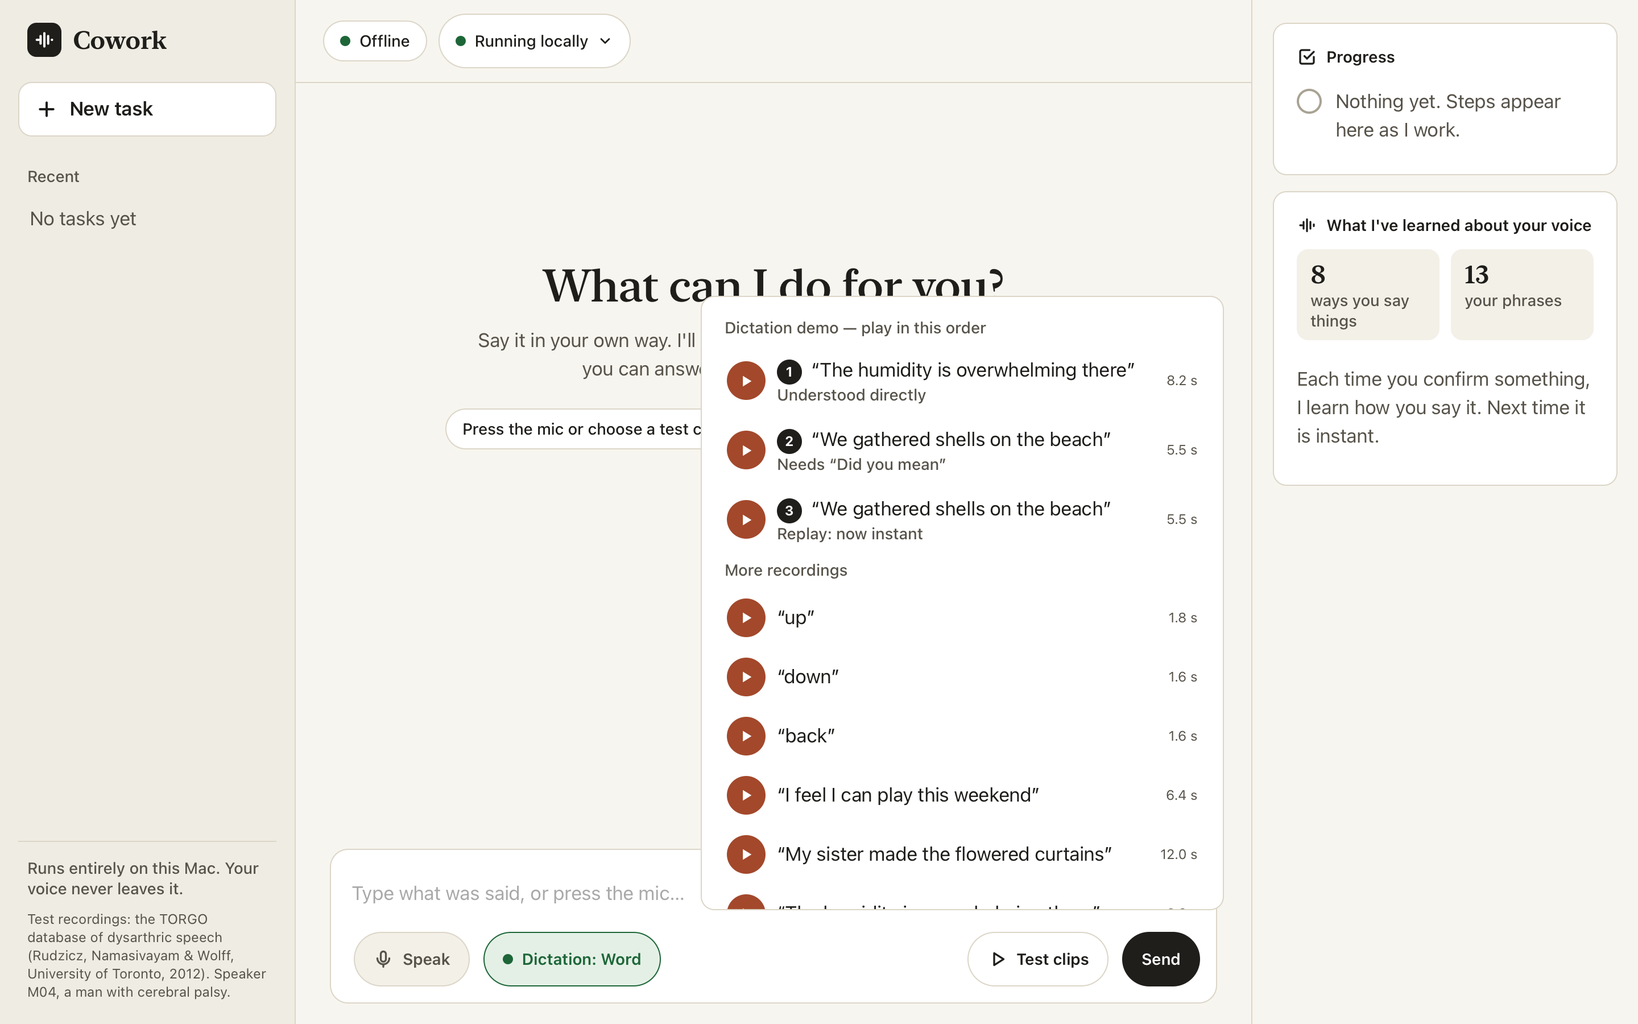
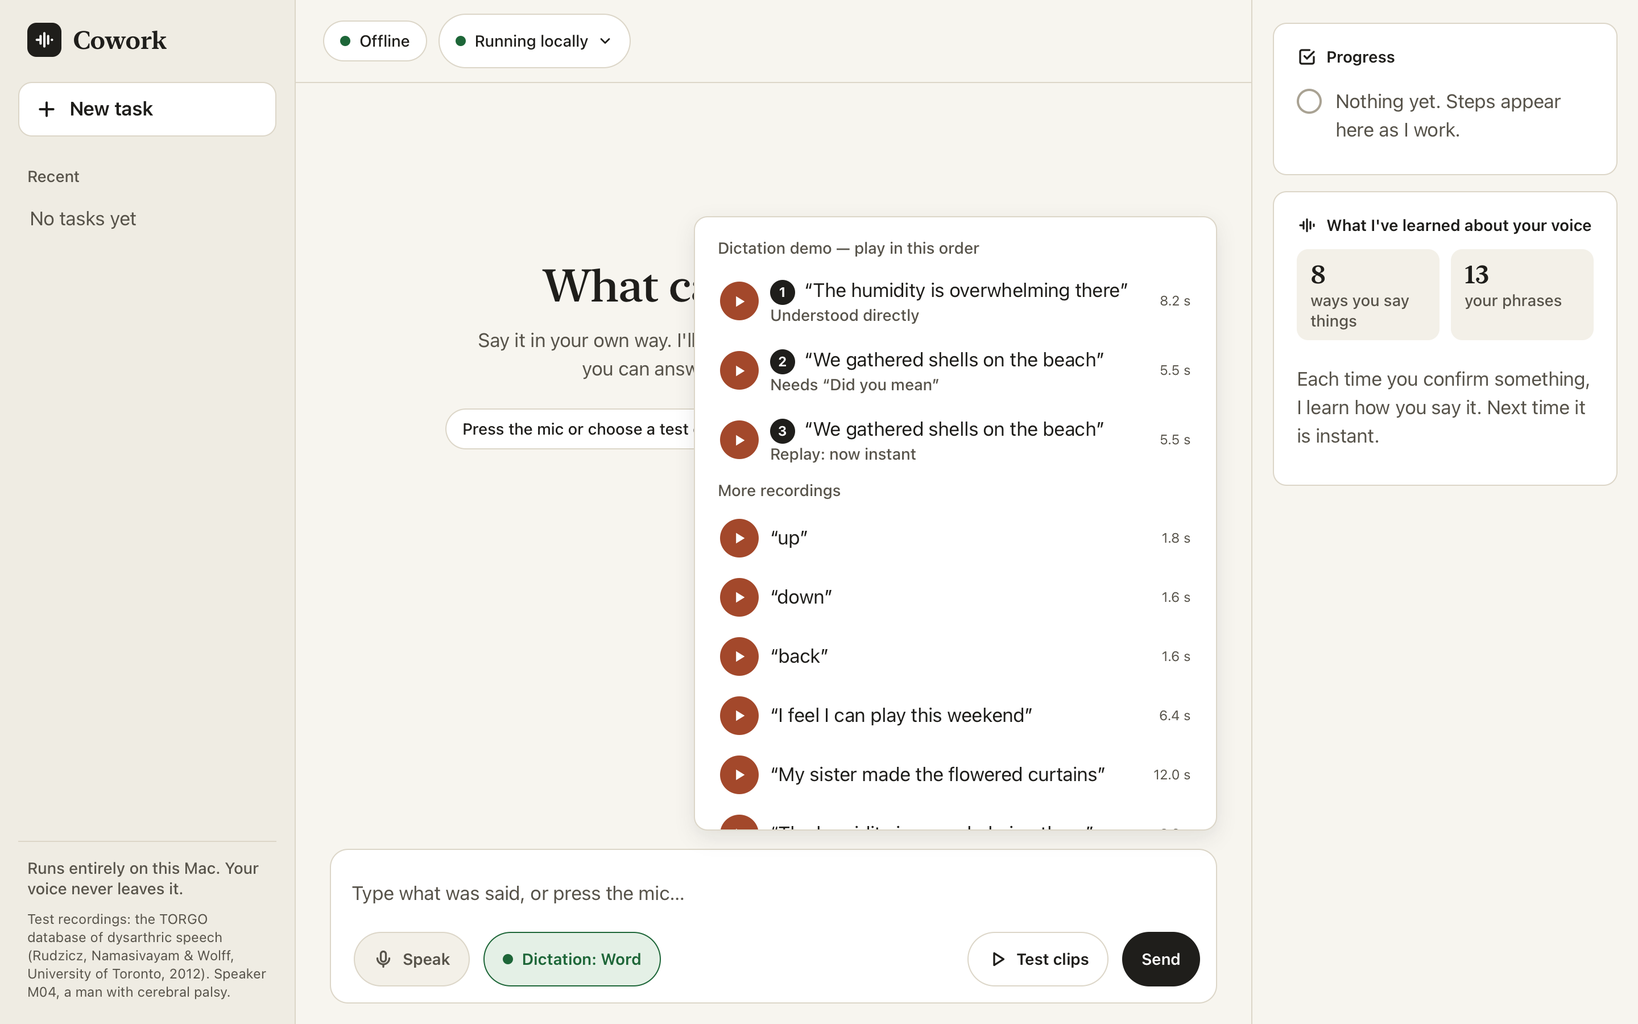
Cowork polish steps 5-8: question cards, right column, camera message, clip list
- Question cards: whole card scrolled into view; line icons instead of emoji; each option shows its
  number and one hint ('Right thumb up'); one instruction line; the Yes button states the outcome
  ('Yes, type it into Word', 'Yes, open Notes'); hold-to-confirm bar kept
- Right column: camera card first (a normal card, shown while a question is open), then Progress,
  then 'What I've learned' in plain language ('Learned: ... means ...', 'Recognized instantly'),
  at most 4 items, newest first; only the hold ring redraws (no camera flicker)
- Camera missing: message only inside the camera card, no pop-up
- Clip list opens above the composer, at most 60% of the window
- Checked in 4 states: only the 5 text sizes, every target at least 48px, the card never clipped,
  no emoji; all text colours at least 4.9:1
- Screen only: no backend, endpoint, model, gesture or learning changes

diff --git a/ui/static/cowork.html b/ui/static/cowork.html
@@ -156,9 +156,13 @@ button.chip { min-height: var(--target); }
 .perm.risky .btn.allow { background: var(--bad); border-color: var(--bad); }
 .btn .how { display: flex; align-items: center; gap: 6px; flex: none; }
 .key { font: var(--label); padding: 2px 7px; border-radius: 6px; border: 1px solid currentColor; }
-.gest { display: inline-flex; flex-direction: column; align-items: center; font-size: 22px; line-height: 1; }
-.gest small { font: var(--caption); margin-top: 2px; }
-.gest .flip { display: inline-block; transform: scaleX(-1); }
+.gest { display: inline-flex; flex-direction: column; align-items: center; line-height: 1; }
+.gest .gi { display: inline-flex; width: 24px; height: 24px; }
+.gest .gi svg { width: 24px; height: 24px; }
+.gest small { font: var(--caption); margin-top: 3px; }
+.opt .hint { display: inline-flex; align-items: center; gap: 8px; font: var(--label); color: var(--muted); }
+.opt .hint svg { width: 20px; height: 20px; }
+.btn.allow .key, .btn.allow .gest { color: #fff; }
 .btn .fill { position: absolute; left: 0; bottom: 0; height: 6px; background: var(--accent); width: calc(var(--p, 0) * 100%); transition: width .1s linear; }
 .btn.allow .fill { background: #F1B9A5; }
 .btn.holding { outline: 3px solid var(--accent); outline-offset: 2px; }
@@ -175,18 +179,19 @@ button.chip { min-height: var(--target); }
 .detail-row { display: flex; gap: 10px; }
 .detail-row input { flex: 1; min-height: var(--target); border: 1px solid var(--line-strong); border-radius: 12px; padding: 0 14px; background: #fff; }
 .detail-row button { min-height: var(--target); border-radius: 12px; border: 1px solid var(--text); background: var(--text); color: #fff; font-weight: 600; padding: 0 20px; }
-.answer-hint { display: flex; flex-wrap: wrap; gap: 14px; margin-top: 12px; font: var(--label); color: var(--muted); }
+.answer-hint { margin-top: 12px; font: var(--label); color: var(--muted); }
 .answer-hint span { display: inline-flex; align-items: center; gap: 6px; }
 .answer-hint svg { width: 16px; height: 16px; }
 .closes { height: 4px; border-radius: 2px; background: var(--line); margin-top: 14px; overflow: hidden; }
 .closes i { display: block; height: 100%; background: var(--line-strong); }
 
 /* ---- composer: one rounded box ---- */
-.composer-wrap { padding: 12px 24px 18px; }
+.composer-wrap { padding: 12px 24px 18px; position: relative; }
 .composer { max-width: 780px; margin: 0 auto; padding: 12px 12px 12px 18px; border-radius: 16px; }
 .composer:focus-within { border-color: var(--line-strong); }
 .composer input { width: 100%; border: 0; background: transparent; min-height: var(--target); padding: 0; }
 .composer input:focus { outline: none; }
+.composer input::placeholder { color: var(--muted); opacity: 1; }
 .composer-row { display: flex; align-items: center; gap: 8px; margin-top: 6px; }
 .composer-row .grow { flex: 1; }
 .cbtn { display: inline-flex; align-items: center; gap: 8px; min-height: var(--target); padding: 0 16px; border-radius: 999px; border: 1px solid var(--line); background: var(--panel); font: var(--label); font-weight: 600; }
@@ -201,7 +206,7 @@ button.chip { min-height: var(--target); }
 .cbtn.pill .dot { width: 9px; height: 9px; border-radius: 50%; background: var(--line-strong); }
 .cbtn.pill[aria-pressed="true"] .dot { background: var(--ok); }
 .cbtn.send { background: var(--text); color: #fff; border-color: var(--text); }
-.clips { position: absolute; bottom: 100px; right: 24px; width: 460px; max-height: 60vh; overflow-y: auto; padding: 12px; z-index: 20; }
+.clips { position: absolute; bottom: calc(100% + 4px); right: max(24px, calc((100% - 780px) / 2)); width: 460px; max-height: 60vh; overflow-y: auto; padding: 12px; z-index: 20; box-shadow: 0 6px 20px rgba(31,30,27,.10); }
 .clips h4 { margin: 6px 8px 8px; font: var(--label); color: var(--muted); }
 .clips button { display: grid; grid-template-columns: 34px 1fr auto; align-items: center; gap: 10px; width: 100%; text-align: left; border: 0; background: transparent; border-radius: 10px; padding: 8px 10px; min-height: var(--target); }
 .clips button:focus-visible, .clips button:hover { background: var(--panel-2); }
@@ -245,10 +250,11 @@ button.chip { min-height: var(--target); }
 .feed-empty { color: var(--muted); }
 
 /* ---- camera preview ---- */
-.cam { position: fixed; top: 16px; right: 18px; width: 304px; overflow: hidden; padding: 0; z-index: 15; transform: translateX(calc(100% + 40px)); visibility: hidden; transition: transform .3s ease, visibility .3s; }
-.cam.show { transform: none; visibility: visible; }
+.cam { padding: 0; overflow: hidden; flex: none; animation: rise .2s ease-out; }
+.cam[hidden] { display: none; }
 .cam img { display: block; width: 100%; aspect-ratio: 4 / 3; object-fit: cover; background: #2B2A27; }
-.cam .off { min-height: 180px; display: grid; place-items: center; text-align: center; color: var(--muted); padding: 20px; }
+.cam .off { min-height: 160px; display: grid; place-items: center; text-align: center; color: var(--text); padding: 20px; }
+.cam .pic { position: relative; }
 .cam .off svg { width: 30px; height: 30px; margin-bottom: 6px; }
 .cam .cap { font: var(--label); padding: 10px 14px; display: flex; align-items: center; gap: 8px; border-top: 1px solid var(--line); }
 .cam .rec { width: 9px; height: 9px; border-radius: 50%; background: var(--ok); flex: none; }
@@ -291,6 +297,7 @@ html.still *, html.still *::before, html.still *::after { animation: none !impor
       <div class="convo" id="convo" aria-live="polite"></div>
     </div>
     <div class="composer-wrap">
+      <div class="clips card" id="clips" hidden></div>
       <form class="composer card" id="typeForm" autocomplete="off">
         <label class="sr" for="typed">Type what was said</label>
         <input id="typed" placeholder="Type what was said, or press the mic…">
@@ -308,10 +315,10 @@ html.still *, html.still *::before, html.still *::after { animation: none !impor
         </div>
       </form>
     </div>
-    <div class="clips card" id="clips" hidden></div>
   </main>
 
-  <aside class="panel" aria-label="Progress and learning">
+  <aside class="panel" aria-label="Camera, progress and learning">
+    <section class="cam card" id="cam" aria-label="Camera" hidden></section>
     <section class="card">
       <h2><svg viewBox="0 0 24 24" fill="none" stroke="currentColor" stroke-width="2.2" stroke-linecap="round"><path d="M9 11l3 3 8-8"/><path d="M20 12v6a2 2 0 0 1-2 2H6a2 2 0 0 1-2-2V6a2 2 0 0 1 2-2h9"/></svg>Progress</h2>
       <ul class="progress" id="progress"></ul>
@@ -323,7 +330,6 @@ html.still *, html.still *::before, html.still *::after { animation: none !impor
     </section>
   </aside>
 </div>
-<div class="cam card" id="cam" aria-hidden="true"></div>
 <div class="toast" id="toast" hidden role="status"></div>
 
 <script>
@@ -350,17 +356,18 @@ const ICON = {
   play: '<svg viewBox="0 0 24 24" fill="#fff"><path d="M7 4v16l13-8z"/></svg>',
   mark: '<svg viewBox="0 0 24 24" fill="none" stroke="#fff" stroke-width="2.4" stroke-linecap="round"><path d="M4 12h2M8 8v8M12 5v14M16 8v8M20 12h0"/></svg>',
 };
-// The hand signals each answer accepts (same meaning as choose/meaning.py).
-const G = {
-  rightHand: '<span class="gest" title="Raise your right hand">✋<small>RIGHT</small></span>',
-  leftHand: '<span class="gest" title="Raise your left hand"><span class="flip">✋</span><small>LEFT</small></span>',
-  up: '<span class="gest" title="Thumb up">👍<small>THUMB</small></span>',
-  down: '<span class="gest" title="Thumb down">👎<small>THUMB</small></span>',
-  LEFT_UP: '<span class="gest" title="Left thumb up">👍<small>LEFT</small></span>',
-  RIGHT_UP: '<span class="gest" title="Right thumb up">👍<small>RIGHT</small></span>',
-  LEFT_DOWN: '<span class="gest" title="Left thumb down">👎<small>LEFT</small></span>',
-  RIGHT_DOWN: '<span class="gest" title="Right thumb down">👎<small>RIGHT</small></span>',
-};
+// The hand signals each answer accepts (same meaning as choose/meaning.py), as line icons.
+const SVG_HAND = '<svg viewBox="0 0 24 24" fill="none" stroke="currentColor" stroke-width="2" stroke-linecap="round" stroke-linejoin="round"><path d="M8 13V5.5a1.5 1.5 0 0 1 3 0V12M11 11V4a1.5 1.5 0 0 1 3 0v8M14 11V5.5a1.5 1.5 0 0 1 3 0V14a7 7 0 0 1-7 7 6 6 0 0 1-5-3l-2.5-4.5a1.5 1.5 0 0 1 2.5-1.5L8 15"/></svg>';
+const SVG_THUMB = '<svg viewBox="0 0 24 24" fill="none" stroke="currentColor" stroke-width="2" stroke-linecap="round" stroke-linejoin="round"><path d="M7 11v10H4a1 1 0 0 1-1-1v-8a1 1 0 0 1 1-1h3zM7 11l4-8a2.5 2.5 0 0 1 3 2.5V9h5a2 2 0 0 1 2 2.3l-1.2 7.4A2.5 2.5 0 0 1 17.3 21H7"/></svg>';
+function gest(kind, side) {   // kind: "hand", "up", "down"; side: "left", "right" or "" (either hand)
+  const icon = kind === "hand" ? SVG_HAND : SVG_THUMB;
+  const turn = (side === "left" ? "scaleX(-1)" : "") + (kind === "down" ? " scaleY(-1)" : "");
+  const name = { hand: "hand up", up: "thumb up", down: "thumb down" }[kind];
+  const who = side === "left" ? "Left" : side === "right" ? "Right" : "Thumb";
+  return `<span class="gest" title="${side ? who : "Either"} ${name}"><span class="gi" style="transform:${turn || "none"}">${icon}</span><small>${who}</small></span>`;
+}
+const GRID_HINT = ["Left thumb up", "Right thumb up", "Left thumb down", "Right thumb down"];
+const GRID_GEST = [["up", "left"], ["up", "right"], ["down", "left"], ["down", "right"]];
 const YES_SIGNALS = ["RIGHT", "RIGHT_UP", "LEFT_UP"], NO_SIGNALS = ["LEFT", "RIGHT_DOWN", "LEFT_DOWN"];
 const GRID = ["LEFT_UP", "RIGHT_UP", "LEFT_DOWN", "RIGHT_DOWN"];
 const NAMES = { "Speech in": "WhisperKit", "Brain": "Bonsai 2 4B", "Voice": "TTSKit" };
@@ -414,7 +421,7 @@ function emailHtml(e) {
   return `<div class="email"><div><b>To</b> ${esc(e.to)}</div><div><b>Subject</b> ${esc(e.subject)}</div><div><b>Message</b> ${esc(e.body)}</div></div>`;
 }
 function undoHtml(until) {
-  return `<div class="undo"><span>Not what you wanted?</span><button data-undo="1">Undo <span class="key">Esc</span></button>${G.leftHand}<span>or say “no”</span><span class="bar"><i data-until="${until}"></i></span></div>`;
+  return `<div class="undo"><span>Not what you wanted?</span><button data-undo="1">Undo <span class="key">Esc</span></button>${gest("hand", "left")}<span>or say “no”</span><span class="bar"><i data-until="${until}"></i></span></div>`;
 }
 function spokenHtml(item, open) {
   const label = item.status === "running" ? "Saying out loud…" : item.status === "undone" ? "Stopped" : "Said out loud";
@@ -430,6 +437,15 @@ function resolvedHtml(item) {
   return `<div class="resolved ${item.status}"><span class="q">${q}</span><span class="a">${esc(item.answer || "")}</span>${item.by ? `<span class="by">${esc(item.by)}</span>` : ""}</div>`;
 }
 
+function yesText(c) {
+  // The Yes button says what will happen.
+  if (c.allow && c.allow !== "Yes" && c.allow !== "Allow" && !c.guess) return c.allow;
+  const dict = (S && S.dictation) || {};
+  const app = (dict.app || "").replace(/^Microsoft /, "") || "the app";
+  if (c.say_aloud) return dict.on ? `Yes, type it into ${app}` : "Yes, say it";
+  if (c.body) return `Yes, ${c.body.charAt(0).toLowerCase()}${c.body.slice(1)}`;
+  return c.allow || "Yes";
+}
 function permHtml(q) {
   const c = q.card || {};
   const hold = S.hold && S.hold.signal ? S.hold : null;
@@ -445,16 +461,16 @@ function permHtml(q) {
   if (c.email) html += emailHtml(c.email);
   if (q.kind === "yes_no") {
     html += `<div class="buttons">
-      <button class="btn deny${holdFor(NO_SIGNALS)}" data-answer="no"><span>${esc(c.deny)}</span><span class="how"><span class="key">Esc</span>${G.leftHand}${G.down}</span><span class="fill"></span></button>
-      <button class="btn allow${holdFor(YES_SIGNALS)}" data-answer="yes"><span>${esc(c.allow)}</span><span class="how"><span class="key">Enter</span>${G.rightHand}${G.up}</span><span class="fill"></span></button>
+      <button class="btn deny${holdFor(NO_SIGNALS)}" data-answer="no"><span>${esc(c.deny)}</span><span class="how"><span class="key">Esc</span>${gest("hand", "left")}${gest("down", "")}</span><span class="fill"></span></button>
+      <button class="btn allow${holdFor(YES_SIGNALS)}" data-answer="yes"><span>${esc(yesText(c))}</span><span class="how"><span class="key">Enter</span>${gest("hand", "right")}${gest("up", "")}</span><span class="fill"></span></button>
     </div>`;
-    html += `<div class="answer-hint"><span>${ICON.mic}Say “yes” or “no”</span><span>${ICON.hand}Right hand or thumb up = ${esc(c.allow)} · Left hand or thumb down = ${esc(c.deny)}</span></div>`;
+    html += `<div class="answer-hint">Say yes or no, show your thumb, or press Enter/Esc.</div>`;
   } else if (q.kind === "choice") {
     const opts = c.options || [];
     html += `<div class="${opts.length > 2 ? "grid4" : "grid2"}">` + opts.map((o, i) =>
-      `<button class="btn opt${o.kind === "else" ? " else" : ""}${holdFor([GRID[i]])}" data-pick="${i}"><span class="row"><span class="num">${i + 1}</span><span class="how">${G[GRID[i]]}</span></span><span class="txt">${esc(o.text)}</span><span class="fill"></span></button>`).join("") + "</div>";
+      `<button class="btn opt${o.kind === "else" ? " else" : ""}${holdFor([GRID[i]])}" data-pick="${i}"><span class="row"><span class="num">${i + 1}</span><span class="hint">${gest(GRID_GEST[i][0], GRID_GEST[i][1]).replace(/<small>.*?<\/small>/, "")}${GRID_HINT[i]}</span></span><span class="txt">${esc(o.text)}</span><span class="fill"></span></button>`).join("") + "</div>";
     html += `<div class="none-row"><button class="none-btn" data-answer="none">None of these <span class="key">Esc</span></button></div>`;
-    html += `<div class="answer-hint"><span>${ICON.mic}Say “one” to “four”</span><span>${ICON.hand}Left thumb = left column, right thumb = right column; up = top row, down = bottom</span><span>${ICON.keys}Keys 1–4</span></div>`;
+    html += `<div class="answer-hint">Say the number, show your thumb, or press 1-4.</div>`;
   } else if (q.kind === "detail") {
     html += `<div class="values">${(c.options || []).map((o) => `<button data-text="${esc(o.text)}">${esc(o.text)}</button>`).join("")}</div>
       <form class="detail-row" data-detail="1"><input id="detailInput" aria-label="${esc(c.title)}" placeholder="Type it"><button>OK</button></form>`;
@@ -471,7 +487,10 @@ function turnHtml(t, isLast) {
   html += `<div class="assistant"><div class="avatar" aria-hidden="true">${ICON.mark}</div><div class="items">`;
   const open = isLast && !t.finished;
   for (const item of t.items || []) {
-    if (item.type === "note") html += `<div class="note ${item.icon}">${ICON[item.icon] || ""}<span>${esc(item.text)}</span></div>`;
+    if (item.type === "note") {
+      const text = item.icon === "bolt" ? "Recognized instantly from what I've learned" : item.text;
+      html += `<div class="note ${item.icon}">${ICON[item.icon] || ""}<span>${esc(text)}</span></div>`;
+    }
     else if (item.type === "step") html += stepHtml(item, open);
     else if (item.type === "spoken") html += spokenHtml(item, open);
     else if (item.type === "typed") html += typedHtml(item, open);
@@ -509,25 +528,24 @@ function progressHtml(s) {
 }
 
 function feedHtml(s) {
-  const items = (s.feed || []).slice(0, 14);
+  const items = (s.feed || []).filter((f) => ["learned", "fast_path", "undone", "forgot", "cancelled", "new_phrase"].includes(f.kind)).slice(0, 4);
   if (!items.length) return '<li class="feed-empty">Each time you confirm something, I learn how you say it. Next time it is instant.</li>';
+  const q = (t) => `‘${esc(String(t || "").replace(/[.!?]+$/, ""))}’`;
   return items.map((f) => {
     const meant = f.request || f.meaning || f.phrase || "";
-    if (f.kind === "learned") return `<li><span class="kind k-learned">${ICON.learn}Learned</span><div><span class="said">“${esc(f.heard)}”</span> <span class="arrow">→</span> <span class="meant">${esc(meant)}</span></div></li>`;
-    if (f.kind === "fast_path") return `<li><span class="kind k-fast">${ICON.bolt}Fast path</span><div><span class="meant">${esc(meant)}</span> answered in <span class="ms">${f.latency_ms < 1 ? "<1" : Math.round(f.latency_ms)} ms</span>, no model</div><div class="said">like “${esc(f.example_heard)}”</div></li>`;
-    if (f.kind === "undone" || f.kind === "forgot" || f.kind === "cancelled") return `<li><span class="kind k-undo">${ICON.undo.replace('stroke="#fff"', 'stroke="currentColor"')}${f.kind === "cancelled" ? "Cancelled" : "Forgot"}</span><div>${f.heard ? `<span class="said">“${esc(f.heard)}”</span> <span class="arrow">≠</span> ` : ""}<span class="meant">${esc(meant)}</span></div></li>`;
-    if (f.kind === "new_phrase") return `<li><span class="kind k-learned">${ICON.learn}New phrase</span><div class="meant">${esc(f.phrase)}</div></li>`;
-    if (f.kind === "new_words") return `<li><span class="kind k-other">New words</span><div>${esc((f.words || []).join(", "))}</div></li>`;
-    if (f.kind === "sound_check") return `<li><span class="kind k-other">${ICON.ear}Listened again</span><div>${f.confirmed ? "Recording backs up" : "Not sure about"} <span class="meant">${esc(meant)}</span></div></li>`;
-    if (f.kind === "relisten") return `<li><span class="kind k-other">${ICON.ear}Found by sound</span><div class="meant">${esc(meant)}</div></li>`;
-    return "";
+    if (f.kind === "learned") return `<li><span class="kind k-learned">${ICON.learn}Learned</span><div>${q(f.heard)} means ${q(meant)}</div></li>`;
+    if (f.kind === "fast_path") return `<li><span class="kind k-fast">${ICON.bolt}Recognized instantly</span><div>${q(meant)}</div></li>`;
+    if (f.kind === "new_phrase") return `<li><span class="kind k-learned">${ICON.learn}New phrase</span><div>${q(f.phrase)}</div></li>`;
+    const undo = ICON.undo.replace('stroke="#fff"', 'stroke="currentColor"');
+    if (f.kind === "cancelled") return `<li><span class="kind k-undo">${undo}Cancelled</span><div>${q(meant)}</div></li>`;
+    return `<li><span class="kind k-undo">${undo}Forgot</span><div>${f.heard ? `${q(f.heard)} doesn't mean ${q(meant)}` : q(meant)}</div></li>`;
   }).join("");
 }
 
 function camHtml(s) {
   const c = s.camera || {};
   const hold = s.hold && s.hold.signal ? s.hold : null;
-  const ring = hold ? `<svg class="ring" viewBox="0 0 54 54"><circle cx="27" cy="27" r="22" stroke="rgba(255,255,255,.35)"/><circle cx="27" cy="27" r="22" stroke="#F3B49F" stroke-dasharray="${(138 * hold.progress).toFixed(1)} 138" transform="rotate(-90 27 27)" stroke-linecap="round"/></svg>` : "";
+  const ring = '<span id="camRing"></span>';
   const picture = c.connected && c.problem
     ? `<div class="off"><div>${ICON.cam}<br>${esc(c.problem)}</div></div>`
     : c.connected
@@ -535,7 +553,7 @@ function camHtml(s) {
     : `<div class="off"><div>${ICON.cam}<br>Camera not connected<br><small>start with --camera to answer by hand</small></div></div>`;
   const cap = !c.connected ? "Hand answers need the camera"
     : c.problem ? "Answer by voice or keyboard instead" : "Watching for your answer — nothing is recorded";
-  return `${picture}<div class="cap"><span class="rec"${c.problem || !c.connected ? ' style="background:#E3A72F"' : ""}></span>${cap}</div>`;
+  return `<div class="pic">${picture}</div><div class="cap"><span class="rec"${c.problem || !c.connected ? ' style="background:var(--warn)"' : ""}></span>${cap}</div>`;
 }
 
 let camKey = "";
@@ -544,7 +562,7 @@ function render(s) {
   $("strip").innerHTML = stripHtml(s);
   const turns = turnsOf(s);
   $("convo").innerHTML = turns.length ? turns.map((t, i) => turnHtml(t, i === turns.length - 1)).join("") : emptyHtml(s);
-  $("recent").innerHTML = turns.slice().reverse().map((t, i) => `<li class="${i === 0 ? "now" : ""}">${t.finished && t.request ? '<span class="tick">✓</span>' : ""}${esc(t.request || "“" + t.heard + "”")}</li>`).join("") || '<li style="color:var(--muted)">No tasks yet</li>';
+  $("recent").innerHTML = turns.slice().reverse().map((t, i) => `<li class="${i === 0 ? "now" : ""}">${t.finished && t.request ? '<span class="tick"><svg width="14" height="14" viewBox="0 0 24 24" fill="none" stroke="currentColor" stroke-width="3" stroke-linecap="round" stroke-linejoin="round"><path d="M5 12.5l4.5 4.5L19 7.5"/></svg></span>' : ""}${esc(t.request || "“" + t.heard + "”")}</li>`).join("") || '<li style="color:var(--muted)">No tasks yet</li>';
   $("progress").innerHTML = progressHtml(s);
   const counts = s.counts || {};
   $("counts").innerHTML = `<div><b>${counts.examples ?? 0}</b><span>ways you say things</span></div><div><b>${counts.phrases ?? 0}</b><span>your phrases</span></div>`;
@@ -563,17 +581,28 @@ function render(s) {
   // Camera preview: slides in while a card can be answered by hand.
   const q = s.question;
   const showCam = !!(q && (q.kind === "yes_no" || q.kind === "choice"));
-  $("cam").classList.toggle("show", showCam);
-  const key = JSON.stringify([s.camera, s.hold]);
+  $("cam").hidden = !showCam;
+  const key = JSON.stringify(s.camera);
   if (key !== camKey) { camKey = key; $("cam").innerHTML = camHtml(s); if (camUrl && $("camImg")) $("camImg").src = camUrl; }
+  if ($("camRing")) {   // only the hold-to-confirm ring changes while a hand is held up
+    const hold = s.hold && s.hold.signal ? s.hold : null;
+    $("camRing").innerHTML = hold ? `<svg class="ring" viewBox="0 0 54 54"><circle cx="27" cy="27" r="22" stroke="rgba(255,255,255,.35)"/><circle cx="27" cy="27" r="22" stroke="#F1B9A5" stroke-dasharray="${(138 * hold.progress).toFixed(1)} 138" transform="rotate(-90 27 27)" stroke-linecap="round"/></svg>` : "";
+  }
   // New card or new turn: bring it into view.
   const qid = q ? q.id : null;
   if (qid !== lastQid || turns.length !== lastTurnCount) {
     lastQid = qid; lastTurnCount = turns.length;
     const sc = $("scroll"); sc.scrollTop = sc.scrollHeight;
+    const card = document.querySelector(".perm");
+    if (card) {   // the whole card, never clipped under the header
+      const fits = card.offsetHeight + 40 <= sc.clientHeight;
+      card.scrollIntoView({ block: fits ? "end" : "start" });
+    }
     if (q && q.kind === "detail") setTimeout(() => $("detailInput") && $("detailInput").focus(), 30);
   }
-  if (s.notice && Date.now() / 1000 - s.notice.time < 6) showToast(s.notice.text);
+  const camProblem = s.camera && s.camera.problem;
+  if (s.notice && Date.now() / 1000 - s.notice.time < 6 && s.notice.text !== camProblem) showToast(s.notice.text);
+  if (camProblem && $("toast").textContent === camProblem) $("toast").hidden = true;   // shown in the camera card only
 }
 
 function showToast(text) {
@@ -595,7 +624,7 @@ setInterval(() => {
 // Camera frames, only while the preview is showing.
 let camBusy = false;
 setInterval(async () => {
-  if (camBusy || !S || !S.camera || !S.camera.connected || !$("cam").classList.contains("show")) return;
+  if (camBusy || !S || !S.camera || !S.camera.connected || $("cam").hidden) return;
   const img = $("camImg");
   if (!img) return;
   camBusy = true;
